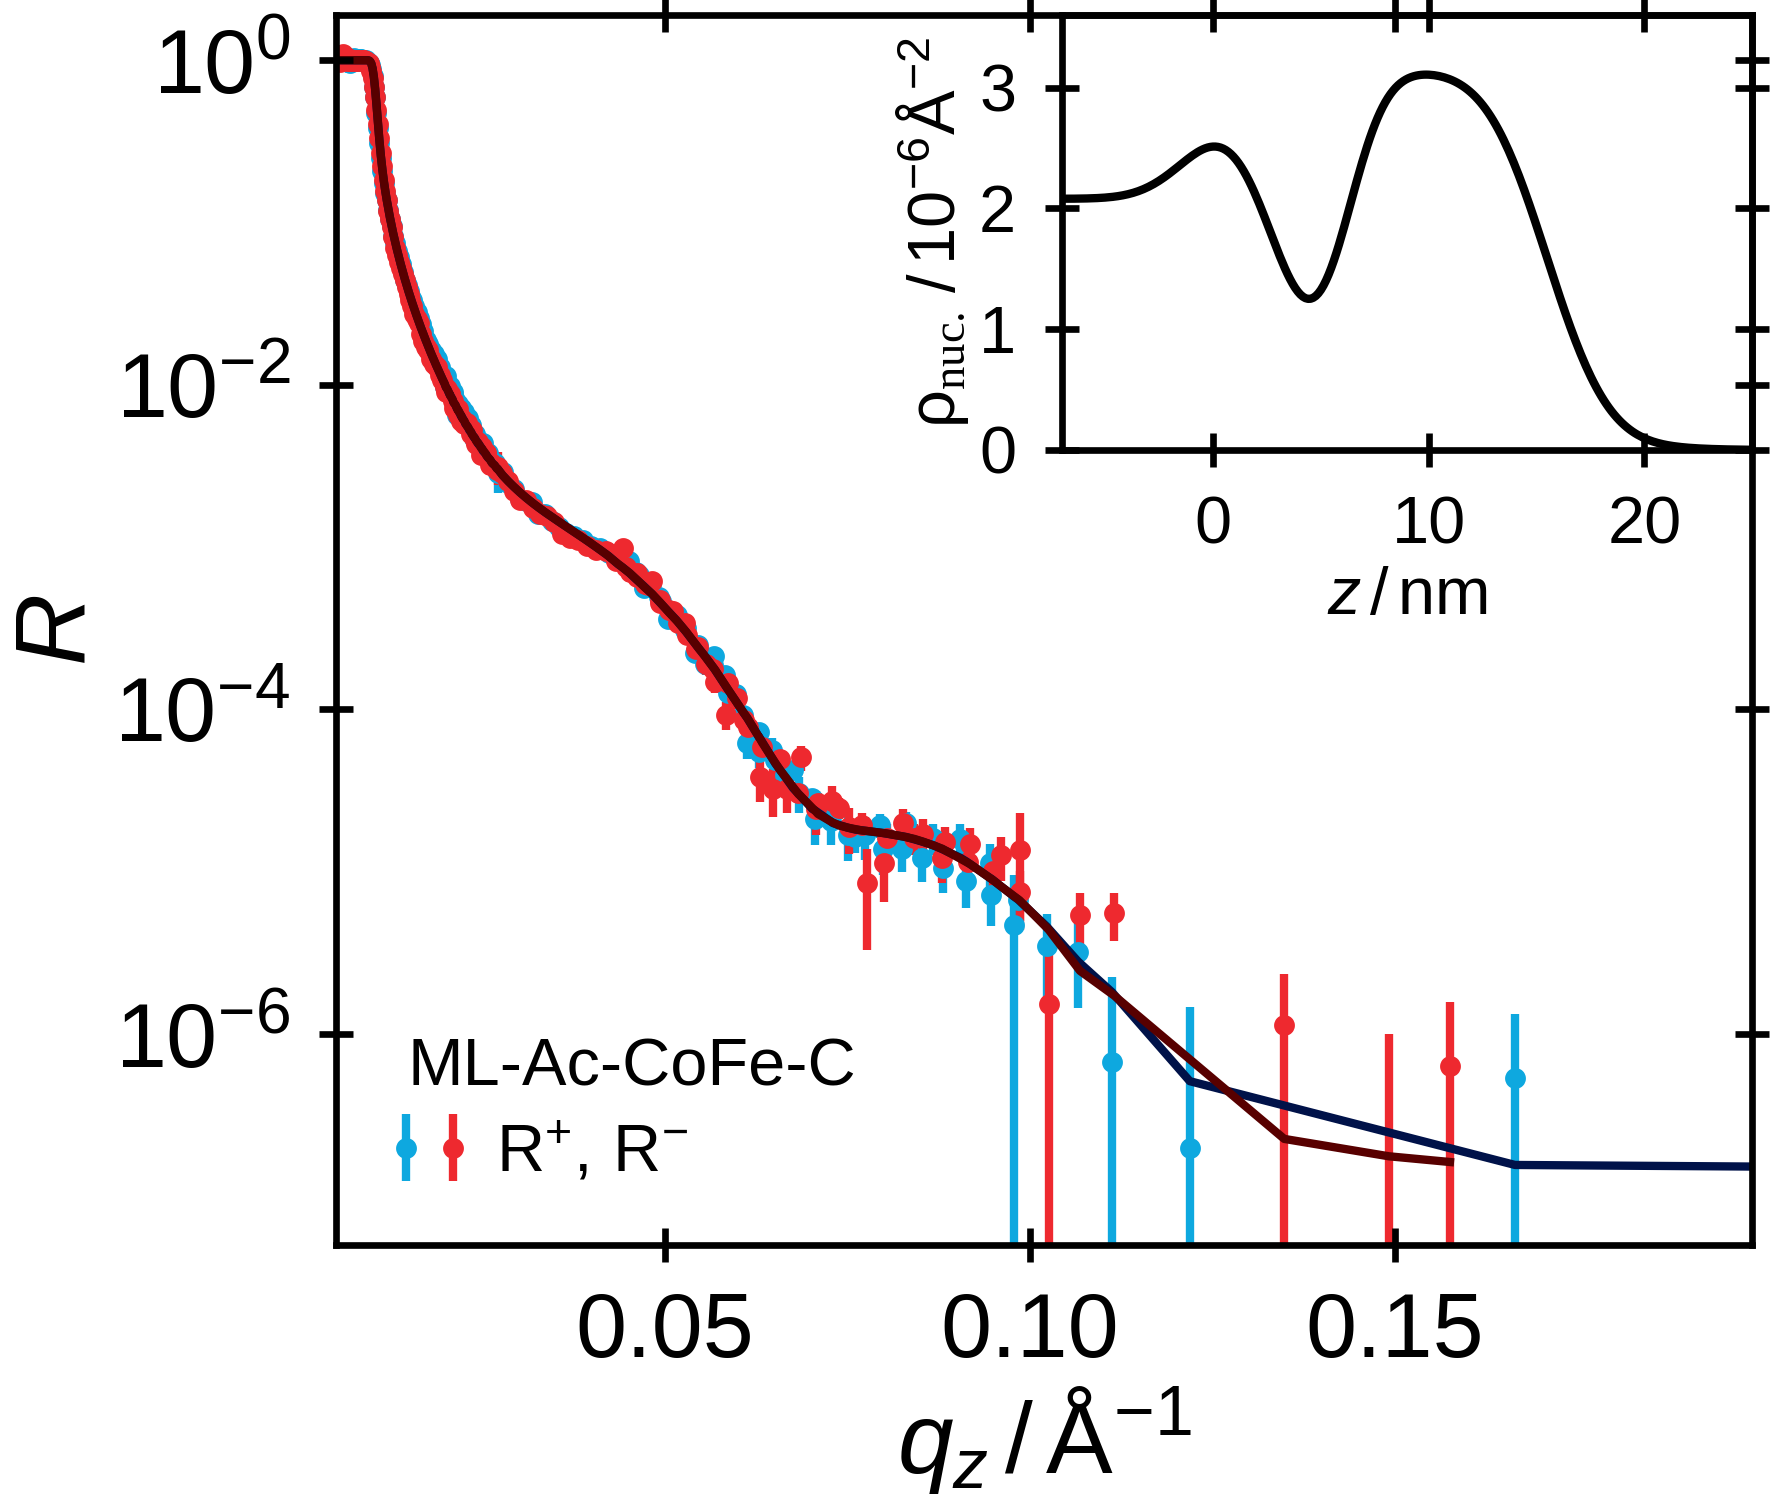
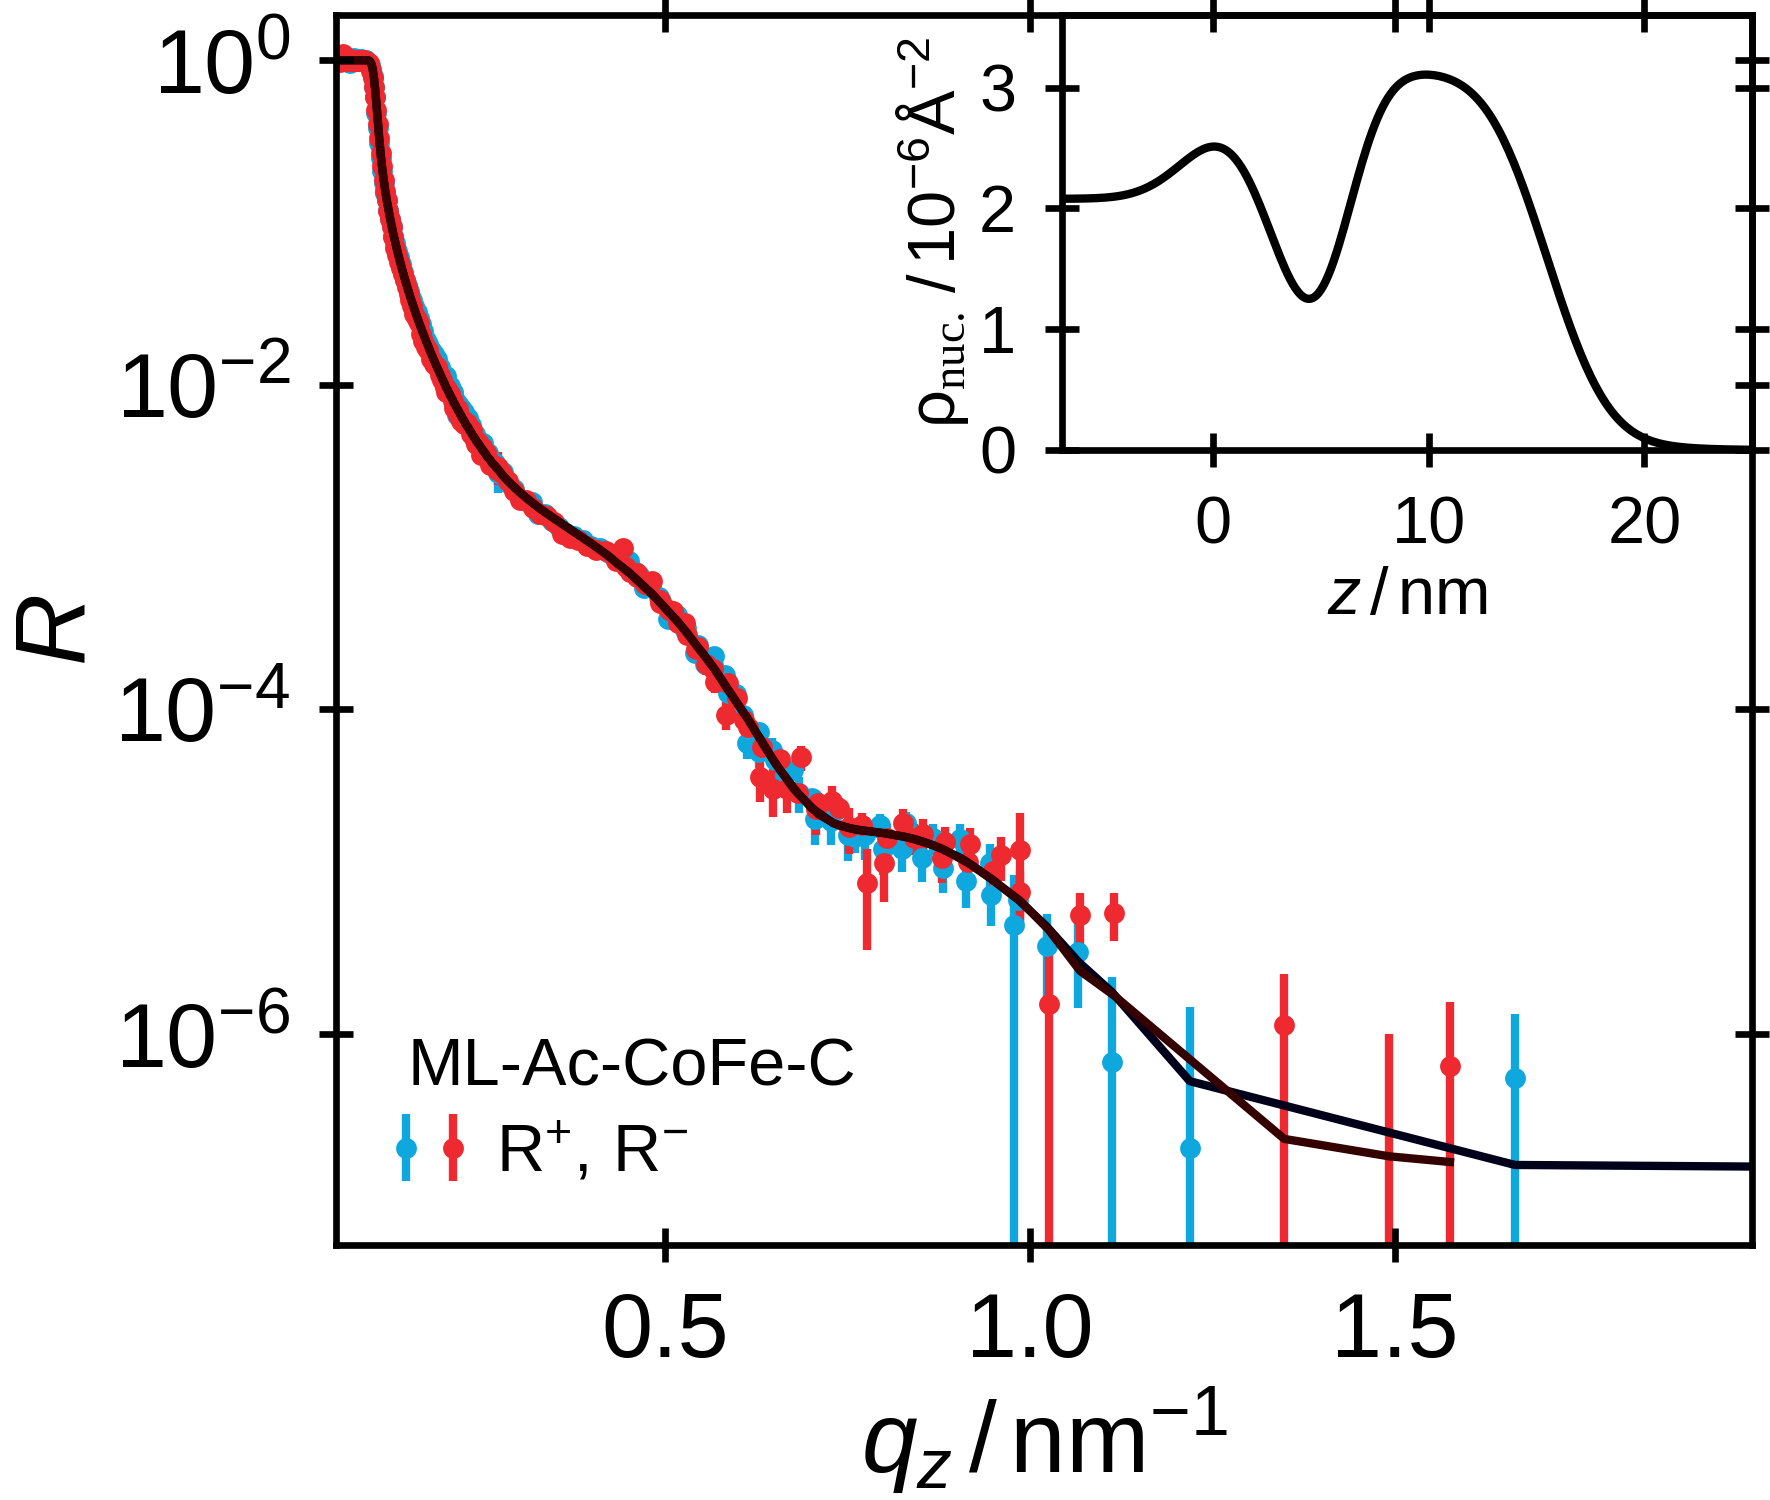
[Correction][Monolayer] Correct x-axis units in XRR and NR

diff --git a/data/monolayers/structureModel/NR/THESIS_model_Monolayer.py b/data/monolayers/structureModel/NR/THESIS_model_Monolayer.py
@@ -1,22 +1,22 @@
-#Initialized ScriptFactory v0.2
-#Date: 2018-07-11 20:36:37.178142
-#Author(s)/Contact:
-#Dominique Dresen	 Dominique.Dresen@uni-koeln.de
+# Initialized ScriptFactory v0.2
+# Date: 2018-07-11 20:36:37.178142
+# Author(s)/Contact:
+# Dominique Dresen	 Dominique.Dresen@uni-koeln.de
 
-#Preparing Script for Experiment: THESIS
-import sys, os
+# Preparing Script for Experiment: THESIS
+from matplotlib.legend_handler import HandlerTuple
+from PlottingTemplates.saxssanssanspol import colors, inset_fontsize, color_variant
+from modelexp.data import MultiData, XyemData, XyeData
+import warnings
+import numpy as np
+import matplotlib.pyplot as plt
+import sys
+import os
 thesisimgs = os.environ['phdthesisimgs']
 cwd = sys.path[0]
-import matplotlib.pyplot as plt
 plt.style.use('phdthesis')
 
-import numpy as np
-import warnings
-from modelexp.data import MultiData, XyemData, XyeData
 
-from PlottingTemplates.saxssanssanspol import colors, inset_fontsize, color_variant
-
-from matplotlib.legend_handler import HandlerTuple
 # remove some annoying warnings
 warnings.filterwarnings("ignore", category=UserWarning, module='matplotlib')
 
@@ -26,35 +26,38 @@ fit_file = cwd + "/models/MonolayerWithSpacerModel/fit_result.dat"
 sld_file = cwd + "/models/MonolayerWithSpacerModel/fit_sld.dat"
 
 labeltext = 'ML-Ac-CoFe-C'
-q_min, q_max = 0.005, 0.199
+q_min, q_max = 0.05, 1.99
 I_min, I_max = 5e-8, 1.9e0
 
 refl_pngfile = f"{Chapter}_VerticalStructure_{sample_name}_NR.png"
 
-def get_clean_data(data, suffix, i0=1):
-  q, I, sI, Imodel = data.getDatasetBySuffix(suffix).getData()
-  q = np.array(q)
-  I = np.array(I)
-  sI = np.array(sI)
-  Imodel = np.array(Imodel)
-  I /= i0
-  sI /= i0
-  Imodel /= i0
-  # valid_data = sI/I < 0.5
-  # q = q[valid_data]
-  # I = I[valid_data]
-  # sI = sI[valid_data]
-  # Imodel = Imodel[valid_data]
-  return q, I, sI, Imodel
 
-#load data
+def get_clean_data(data, suffix, i0=1):
+    q, I, sI, Imodel = data.getDatasetBySuffix(suffix).getData()
+    q = np.array(q)
+    I = np.array(I)
+    sI = np.array(sI)
+    Imodel = np.array(Imodel)
+    q *= 10
+    I /= i0
+    sI /= i0
+    Imodel /= i0
+    # valid_data = sI/I < 0.5
+    # q = q[valid_data]
+    # I = I[valid_data]
+    # sI = sI[valid_data]
+    # Imodel = Imodel[valid_data]
+    return q, I, sI, Imodel
+
+
+# load data
 data = MultiData(XyemData)
 data.loadFromFile(fit_file)
 i0 = data.params['i0']['value']
 q_p, I_p, sI_p, Imodel_p = get_clean_data(data, 'p', i0)
 q_m, I_m, sI_m, Imodel_m = get_clean_data(data, 'm', i0)
 
-#load sld
+# load sld
 sldData = MultiData(XyeData)
 sldData.loadFromFile(sld_file)
 r, sld, sldMag = sldData.getDataset(0).getData()
@@ -63,44 +66,46 @@ left, bottom = 0.19, 0.17
 x0in = 0.6
 y0in = 0.7
 widthin = 1-x0in-0.01
-heightin= 1-y0in-0.01
+heightin = 1-y0in-0.01
 
 fig = plt.figure()
-ax = fig.add_axes([left,bottom, 1-left-0.01, 1-bottom-0.01])
+ax = fig.add_axes([left, bottom, 1-left-0.01, 1-bottom-0.01])
 ax_sld = fig.add_axes([x0in, y0in, widthin, heightin])
-ax.errorbar(q_p, I_p, sI_p,\
-  linestyle='None', color=colors['sanspol_p_sa_data'],
-  label='NR, $I_u$', zorder=0, capsize=0, marker='.')
-ax.errorbar(q_m, I_m, sI_m,\
-  linestyle='None', color=colors['sanspol_m_sa_data'],
-  label='NR, $I_d$', zorder=0, capsize=0, marker='.')
-ax.plot(q_p, Imodel_p, zorder=1, color=colors['sanspol_p_model'],    marker='None')
-ax.plot(q_m, Imodel_m, zorder=1, color=colors['sanspol_m_model'],
-  marker='None')
+ax.errorbar(q_p, I_p, sI_p,
+            linestyle='None',
+            label='NR, $I_u$', zorder=0, capsize=0, marker='.')
+ax.errorbar(q_m, I_m, sI_m,
+            linestyle='None',
+            label='NR, $I_d$', zorder=0, capsize=0, marker='.')
+ax.plot(q_p, Imodel_p, zorder=1,
+        color=colors['sanspol_m_model'],    marker='None')
+ax.plot(q_m, Imodel_m, zorder=1, color=colors['sanspol_p_model'],
+        marker='None')
 
 
 handles, labels = ax.get_legend_handles_labels()
 
 ax.text(0.05, 0.13, labeltext,
-  transform=ax.transAxes, fontsize=inset_fontsize)
+        transform=ax.transAxes, fontsize=inset_fontsize)
 ax.legend(
-  [(handles[0], handles[1])],
-  ['$R^{+},\,R^{-}$'],
-  handler_map={tuple: HandlerTuple(ndivide=None)},
-  fontsize=inset_fontsize,
-  loc='lower left')
+    [(handles[0], handles[1])],
+    ['$R^{+},\,R^{-}$'],
+    handler_map={tuple: HandlerTuple(ndivide=None)},
+    fontsize=inset_fontsize,
+    loc='lower left')
 
 # ax.legend(loc='lower left', fontsize=inset_fontsize)
 ax.set_yscale('log')
-ax.set_xlabel("$\mathit{q_z} \, / \, \AA^{-1}$")
+ax.set_xlabel("$\mathit{q_z} \, / \, nm^{-1}$")
 ax.set_ylabel("$\mathit{R}$")
 ax.set_xlim([q_min, q_max])
 ax.set_ylim([I_min, I_max])
 
 ax_sld.plot(r, sld, marker='None',
-  color=colors['sanspol_sld'])
+            color=colors['sanspol_sld'])
 ax_sld.set_xlabel("$\mathit{z} \,/\,nm$", fontsize=inset_fontsize)
-ax_sld.set_ylabel(r"$\rho_\mathrm{nuc.} \, / \, 10^{-6} \AA^{-2}$", fontsize=inset_fontsize)
+ax_sld.set_ylabel(
+    r"$\rho_\mathrm{nuc.} \, / \, 10^{-6} \AA^{-2}$", fontsize=inset_fontsize)
 ax_sld.set_xticks([0, 10, 20])
 ax_sld.set_yticks([0, 1, 2, 3])
 ax_sld.set_xlim([-7, 25])

diff --git a/data/monolayers/structureModel/XRR/ML_Ac_CoFe_C_2/THESIS_model_Monolayer.py b/data/monolayers/structureModel/XRR/ML_Ac_CoFe_C_2/THESIS_model_Monolayer.py
@@ -1,20 +1,21 @@
-#Initialized ScriptFactory v0.2
-#Date: 2018-07-11 20:36:37.178142
-#Author(s)/Contact:
-#Dominique Dresen	 Dominique.Dresen@uni-koeln.de
+# Initialized ScriptFactory v0.2
+# Date: 2018-07-11 20:36:37.178142
+# Author(s)/Contact:
+# Dominique Dresen	 Dominique.Dresen@uni-koeln.de
 
-#Preparing Script for Experiment: THESIS
-import sys, os
+# Preparing Script for Experiment: THESIS
+from PlottingTemplates.saxssanssanspol import colors, inset_fontsize, color_variant
+from modelexp.data import MultiData, XyemData, XyData
+import warnings
+import numpy as np
+import matplotlib.pyplot as plt
+import sys
+import os
 thesisimgs = os.environ['phdthesisimgs']
 cwd = sys.path[0]
-import matplotlib.pyplot as plt
 plt.style.use('phdthesis')
 
-import numpy as np
-import warnings
-from modelexp.data import MultiData, XyemData, XyData
 
-from PlottingTemplates.saxssanssanspol import colors, inset_fontsize, color_variant
 # remove some annoying warnings
 warnings.filterwarnings("ignore", category=UserWarning, module='matplotlib')
 
@@ -29,25 +30,27 @@ I_min, I_max = 5e-7, 1.9e0
 
 refl_pngfile = f"{Chapter}_SquareArrayParacrystal_{sample_name}_XRR.png"
 
-def get_clean_data(data):
-  q, I, sI, Imodel = data.getDataset(0).getData()
-  q = np.array(q)
-  I = np.array(I)
-  sI = np.array(sI)
-  Imodel = np.array(Imodel)
-  valid_data = sI/I < 1
-  q = q[valid_data]
-  I = I[valid_data]
-  sI = sI[valid_data]
-  Imodel = Imodel[valid_data]
-  return q*10, I, sI, Imodel
 
-#load data
+def get_clean_data(data):
+    q, I, sI, Imodel = data.getDataset(0).getData()
+    q = np.array(q)
+    I = np.array(I)
+    sI = np.array(sI)
+    Imodel = np.array(Imodel)
+    valid_data = sI/I < 1
+    q = q[valid_data]
+    I = I[valid_data]
+    sI = sI[valid_data]
+    Imodel = Imodel[valid_data]
+    return q*10, I, sI, Imodel
+
+
+# load data
 data = MultiData(XyemData)
 data.loadFromFile(fit_file)
 q, I, sI, Imodel = get_clean_data(data)
 print(data.chi2)
-#load sld
+# load sld
 sldData = MultiData(XyData)
 sldData.loadFromFile(sld_file)
 r, sld = sldData.getDataset(0).getData()
@@ -56,28 +59,29 @@ left, bottom = 0.19, 0.17
 x0in = 0.6
 y0in = 0.7
 widthin = 1-x0in-0.01
-heightin= 1-y0in-0.01
+heightin = 1-y0in-0.01
 
 fig = plt.figure()
-ax = fig.add_axes([left,bottom, 1-left-0.01, 1-bottom-0.01])
+ax = fig.add_axes([left, bottom, 1-left-0.01, 1-bottom-0.01])
 ax_sld = fig.add_axes([x0in, y0in, widthin, heightin])
-ax.errorbar(q, I, sI,\
-  linestyle='None', color=colors['sanspol_p_sa_data'],
-  label='XRR', zorder=0, capsize=0, marker='.')
+ax.errorbar(q, I, sI,
+            linestyle='None',
+            label='XRR', zorder=0, capsize=0, marker='.')
 ax.plot(q, Imodel, zorder=1, color='black', marker='None')
 ax.legend(loc='lower left', fontsize=inset_fontsize)
 ax.set_yscale('log')
-ax.set_xlabel("$\mathit{q_z} \, / \, \AA^{-1}$")
+ax.set_xlabel("$\mathit{q_z} \, / \, nm^{-1}$")
 ax.set_ylabel("$\mathit{R}$")
 ax.set_xlim([q_min, q_max])
 ax.set_ylim([I_min, I_max])
 
 ax.text(0.05, 0.15, labeltext,
-  transform=ax.transAxes, fontsize=inset_fontsize)
+        transform=ax.transAxes, fontsize=inset_fontsize)
 ax_sld.plot(r, sld, marker='None',
-  color=colors['sanspol_sld'])
+            color=colors['sanspol_sld'])
 ax_sld.set_xlabel("$\mathit{z} \,/\,nm$", fontsize=inset_fontsize)
-ax_sld.set_ylabel(r"$\rho_\mathrm{el.} \, / \, 10^{-6} \AA^{-2}$", fontsize=inset_fontsize)
+ax_sld.set_ylabel(
+    r"$\rho_\mathrm{el.} \, / \, 10^{-6} \AA^{-2}$", fontsize=inset_fontsize)
 ax_sld.set_xticks([0, 10, 20])
 ax_sld.set_yticks([0, 10, 20])
 ax_sld.set_xlim([-4, 25])
